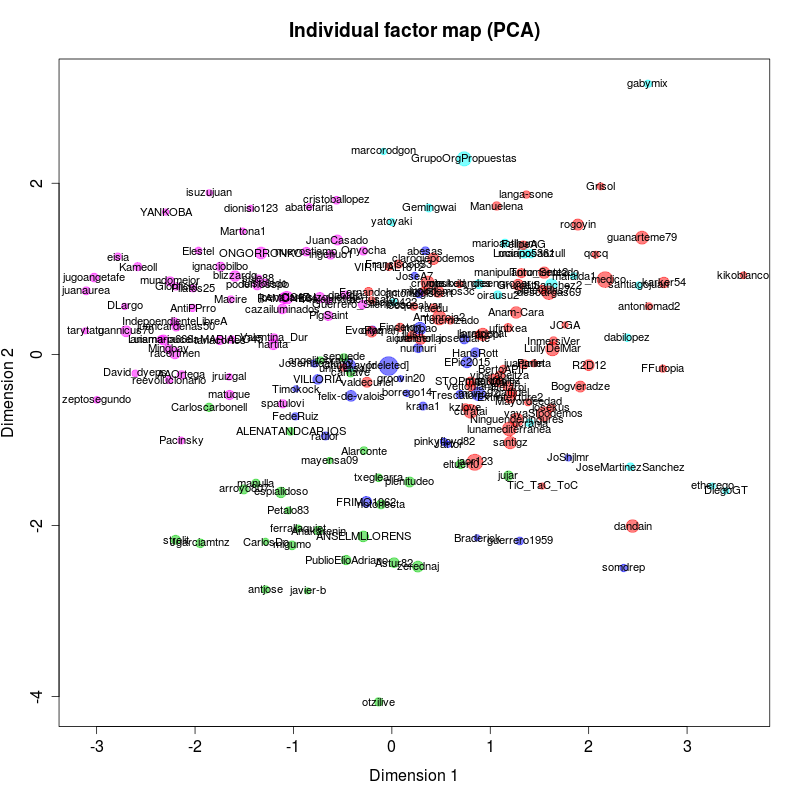
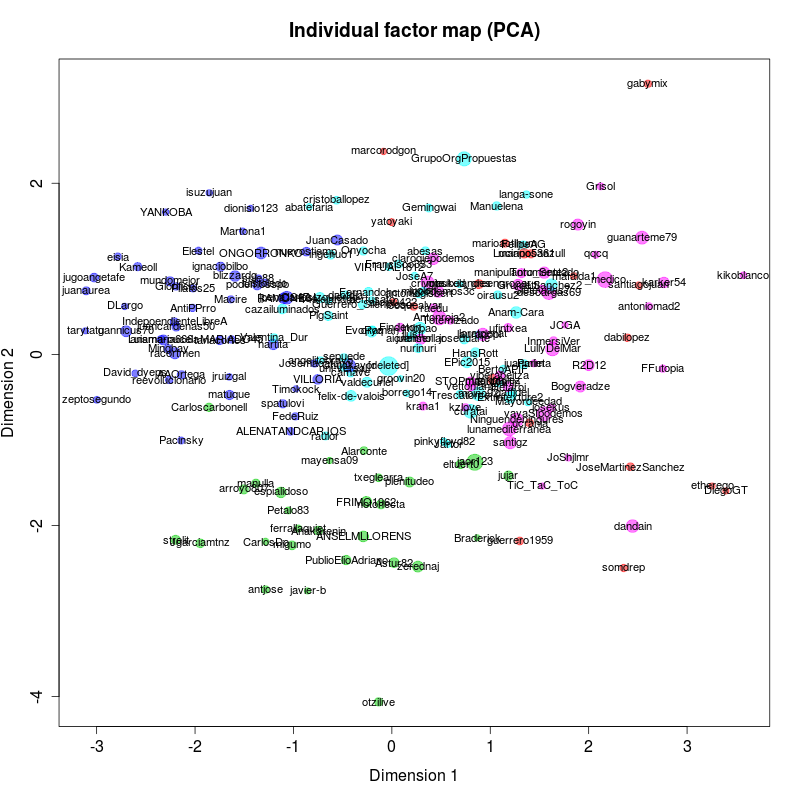
deploy

diff --git a/drafts/2015-01-14-Podemitas_motifs.html b/drafts/2015-01-14-Podemitas_motifs.html
@@ -61,7 +61,7 @@
 <img src="../images/2015-01-15-large_neighborhood.png" width="300px"> <img src="../images/2015-01-15-short_neighborhood.png" width="300px">
 </p>
 <!---OLD: if the original neighborhood has more than $M$ vertices we will keep only the $M$ that are closest in time to the post $p$.-->
-<p>To reduce our space of possible neighborhoods we will introduce the concept of <em>temporal neighborhood</em>: if post $p was written at time <span class="math inline">\(t\)</span>, the temporal neighborhood (of radius <span class="math inline">\(R\)</span>) of a <span class="math inline">\(p\)</span> is the set of <span class="math inline">\(R\)</span> posts in its <em>spacial neighborhood</em> that were written in a time closest to <span class="math inline">\(t\)</span> (and where closeness is computed as <span class="math inline">\(|t_i-t|\)</span>) and where the posts in the shortest path from each neighbour and <span class="math inline">\(p\)</span> belong also to the <em>temporal neighborhood</em>.</p>
+<p>To reduce our space of possible neighborhoods we will introduce the concept of <em>temporal neighborhood</em>: if post <span class="math inline">\(p\)</span> was written at time <span class="math inline">\(t\)</span>, the temporal neighborhood (of radius <span class="math inline">\(R\)</span>) of a <span class="math inline">\(p\)</span> is the set of <span class="math inline">\(R\)</span> posts in its <em>spacial neighborhood</em> that were written in a time closest to <span class="math inline">\(t\)</span> (and where closeness is computed as <span class="math inline">\(|t_i-t|\)</span>) and where the posts in the shortest path from each neighbour and <span class="math inline">\(p\)</span> belong also to the <em>temporal neighborhood</em>.</p>
 <p>With this in mind, we count the <em>temporal neighborhoods</em> of every user’s posts. To make it funnier (and more fine-grained), we will also put a color (white) on the root post. For a spacial neighborhood of radius <span class="math inline">\(1\)</span> and a temporal neighborhood of radius <span class="math inline">\(4\)</span> we obtain:</p>
 <p align="center">
 <img src="../images/2016-01-15-motifs_1_4.png" width="600px">
@@ -72,30 +72,36 @@
 </p>
 <p>where I named the neighborhoods to help the intuition.</p>
 <p>(<strong>Question</strong>: how come <em>spot</em> is the most frequent? How is it possible to have no neighbors at all? Or what might be wrong?)</p>
-<h4 id="types-of-conversationalists">Types of conversationalists</h4>
-<p>Given the neighborhoods in which each user participates, we will analyze whether there exists different types of users or all users look similar. Since</p>
-<p>Since we want to make the analyse independent of the number of posts, we will normalize each user feature vector so that features indicate the percentage of posts in this kind of neighborhood. Moreover, some neighborhoods are much more common than others due to the nature of the forums. Thus, we normalize and scale the features so that every feature has a global mean 0 and variance 1. The features represent now <em>z-scores</em>, that is, how many standard deviations is this user feature away from the mean.</p>
-We will use a simple <em>k-means</em> to find the clusters. To decide the number of clusters, we run <em>k-means</em> for <span class="math inline">\(k=2,...,10\)</span> clusters and looked at the Within-Cluster Sum of Squares.
+<h4 id="clustering-users-with-respect-to-their-neighborhoods">Clustering users with respect to their neighborhoods</h4>
+<p>Given the neighborhoods in which each user participates, we will analyze whether there exists different types of users or all users look similar.</p>
+<p>Since we want to make the analyse independent of the number of posts, we will normalize each user feature vector so that features indicate the percentage of posts in this kind of neighborhood. Moreover, some neighborhoods are much more common than others due to the nature of the forums. Thus, we normalize and scale the features so that every feature has a global mean 0 and variance 1. Features now represent <em>z-scores</em>, that is, how many standard deviations is this user feature away from the mean.</p>
+We will use a simple <em>k-means</em> to find the clusters. To decide the number of clusters, we run <em>k-means</em> for <span class="math inline">\(k=2,...,25\)</span> clusters and looked at the <em>Within-Cluster Sum of Squares</em>.
 <p align="center">
 <img src="../images/2016-01-15-elbow2.png" width="600px">
 </p>
-This plot suggests a <span class="math inline">\(k\)</span> between 3 and 5. I will choose 5 to keep thinks simple. I run the k-means and then plot the scatter matrix of evert pair of variables, where colors correspond to the clusters.
+We choose 5 clusters to keep thinks simple. We run the k-means and then plot the scatter matrix of every pair of variables, where colors correspond to the clusters.
 <p align="center">
-<img src="../images/2016-01-15-ggpairs.png" width="700px">
+<img src="../images/2016-01-15-ggpairs.png" width="600px">
 </p>
-To see it more clearly, let’s plot a PCA projection over the first two components:
+To see it more clearly, let’s plot a couple of PCA projections (with two different libraries) over the first two components:
 <p align="center">
-<img src="../images/2016-01-15-PCA.png" width="800px">
+<img src="../images/2016-01-15-PCA.png" width="600px">
+</p>
+<p align="center">
+<img src="../images/2016-01-15-PCA2.png" width="600px">
+</p>
+And finally let’s visualize a the distribution of each cluster for every feature:
+<p align="center">
+<img src="../images/2016-01-15-whiskers.png" width="600px">
 </p>
 <h3 id="making-sense-of-it">Making sense of it</h3>
-Let us make a closer inspection on the characteristics of each group to understand what are these groups and to see whether the results make sense. Let’s go take a look again at the PCA (with another library):
-<p align="center">
-<img src="../images/2016-01-15-PCA2.png" width="800px">
-</p>
-<p align="center">
-<img src="../images/2016-01-15-whiskers.png" width="800px">
-</p>
-<p>Let’s now formalize the detected groups:</p>
+<p>From the plots above, let’s try to describe every grooup:</p>
+<h4 id="spotters-salient-motif-spot">Spotters (salient motif: <em>spot</em>)</h4>
+<h4 id="answerers-salient-motif-ca3">Answerers (salient motif: <em>CA3</em>)</h4>
+<h4 id="bifurcators-salient-motif-ca3">Bifurcators (salient motif: <em>CA3</em>)</h4>
+<h4 id="catalyzers-salient-motif-ccb-cia-sa">Catalyzers (salient motif: <em>CCB</em> <em>CIA</em> <em>SA</em>)</h4>
+<h4 id="common-people">Common People</h4>
+<h4 id="lurkers">Lurkers</h4>
 <ul>
 <li><strong>Spotters (pink)</strong>: this people seems to be ignore by their peers. A lot of them are probably newbies.</li>
 <li><strong>Common Answerers</strong> (yellow): this people prefer to participate by answering to the root posts raised some interest (CA3 motif)</li>
@@ -107,7 +113,7 @@ Let us make a closer inspection on the characteristics of each group to understa
 <p>Once we assigned a role to every user, let’s see what is the proportion of roles in every thread. We will</p>
 <h4 id="do-roles-have-an-effect-on-thread-length">Do roles have an effect on thread length?</h4>
 <p align="center">
-<img src="../images/2016-01-15-cluster_vs_length.png" width="600">
+<img src="../images/2016-01-15-whiskers_roles_vs_length.png" width="600">
 </p>
 
 <div class="panel panel-default">
